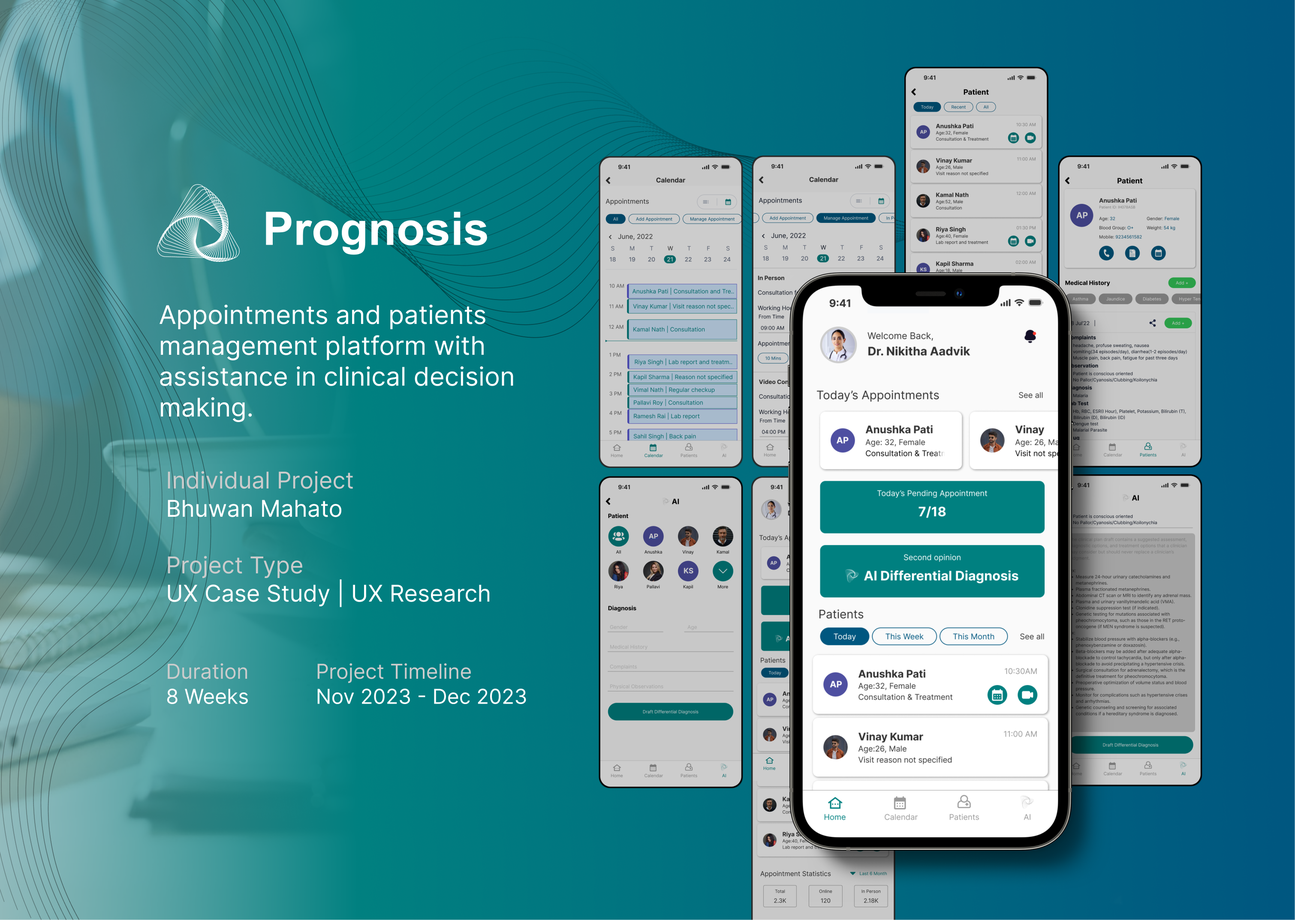
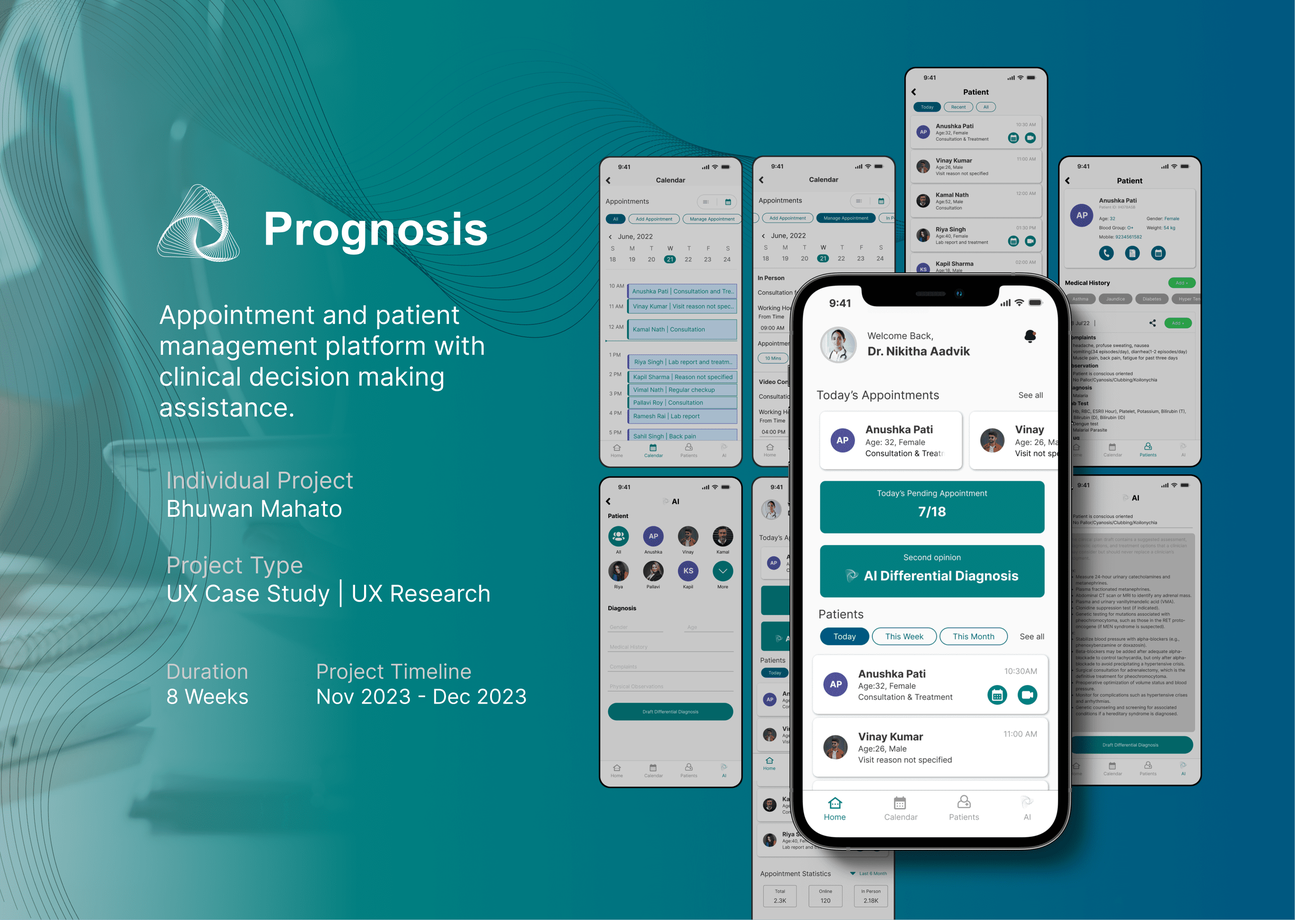
final

diff --git a/index.html b/index.html
@@ -60,8 +60,8 @@
 									</span>
 									<a href="prognosis.html">
 										<div class="content">
-											<h2>Prognosis.ai</h2>
-											<p>Appointments and patients management platform with assistance in clinical decision making.</p>
+											<h2>Prognosis</h2>
+											<p>Appointment and patient management platform with clinical decision making assistance.</p>
 										</div>
 									</a>
 								</article>

diff --git a/prognosis.html b/prognosis.html
@@ -6,7 +6,7 @@
 -->
 <html>
 	<head>
-		<title>Prognosis.ai</title>
+		<title>Prognosis</title>
 		<meta charset="utf-8" />
 		<meta name="viewport" content="width=device-width, initial-scale=1, user-scalable=no" />
 		<link rel="stylesheet" href="assets/css/main.css" />
